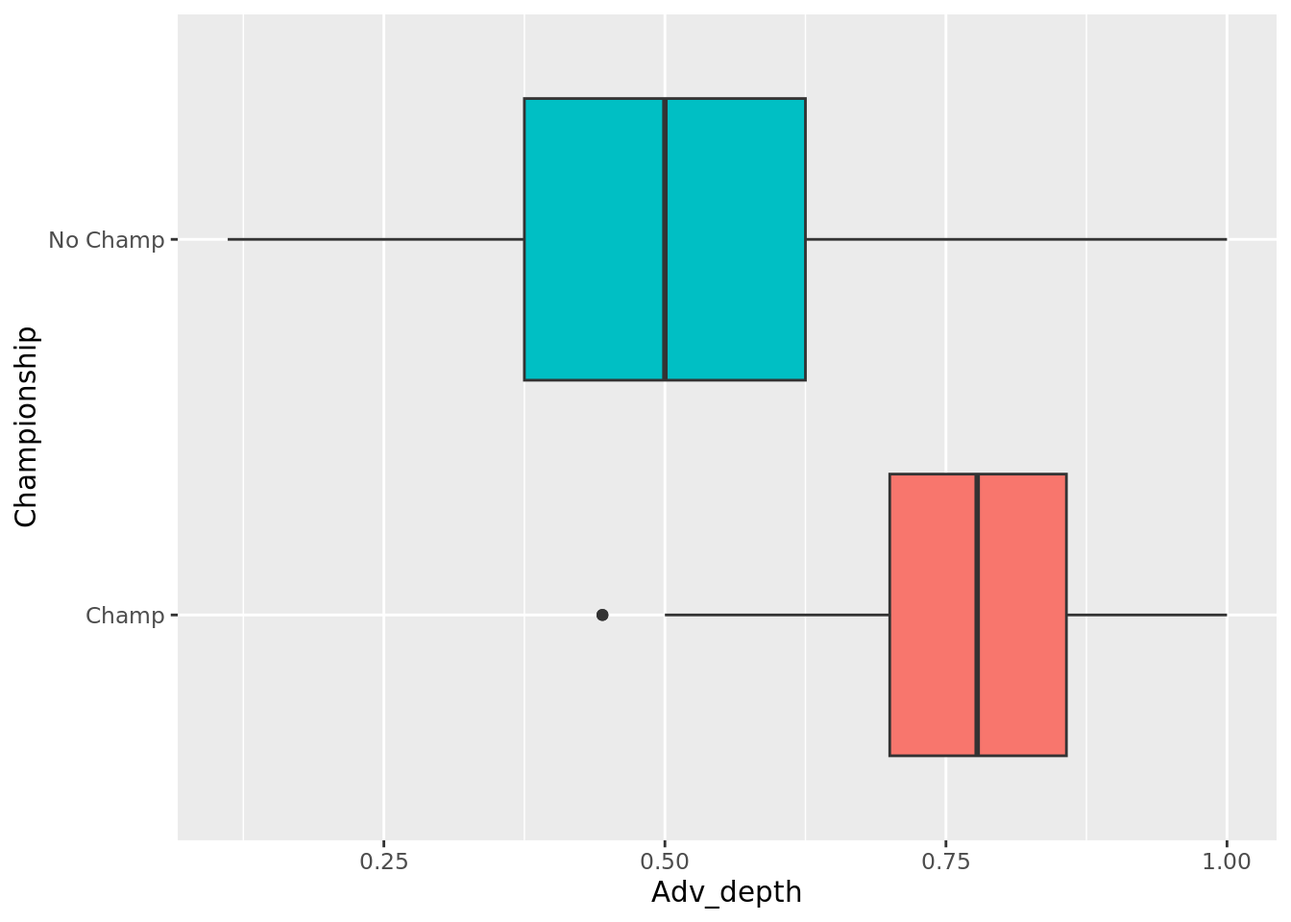
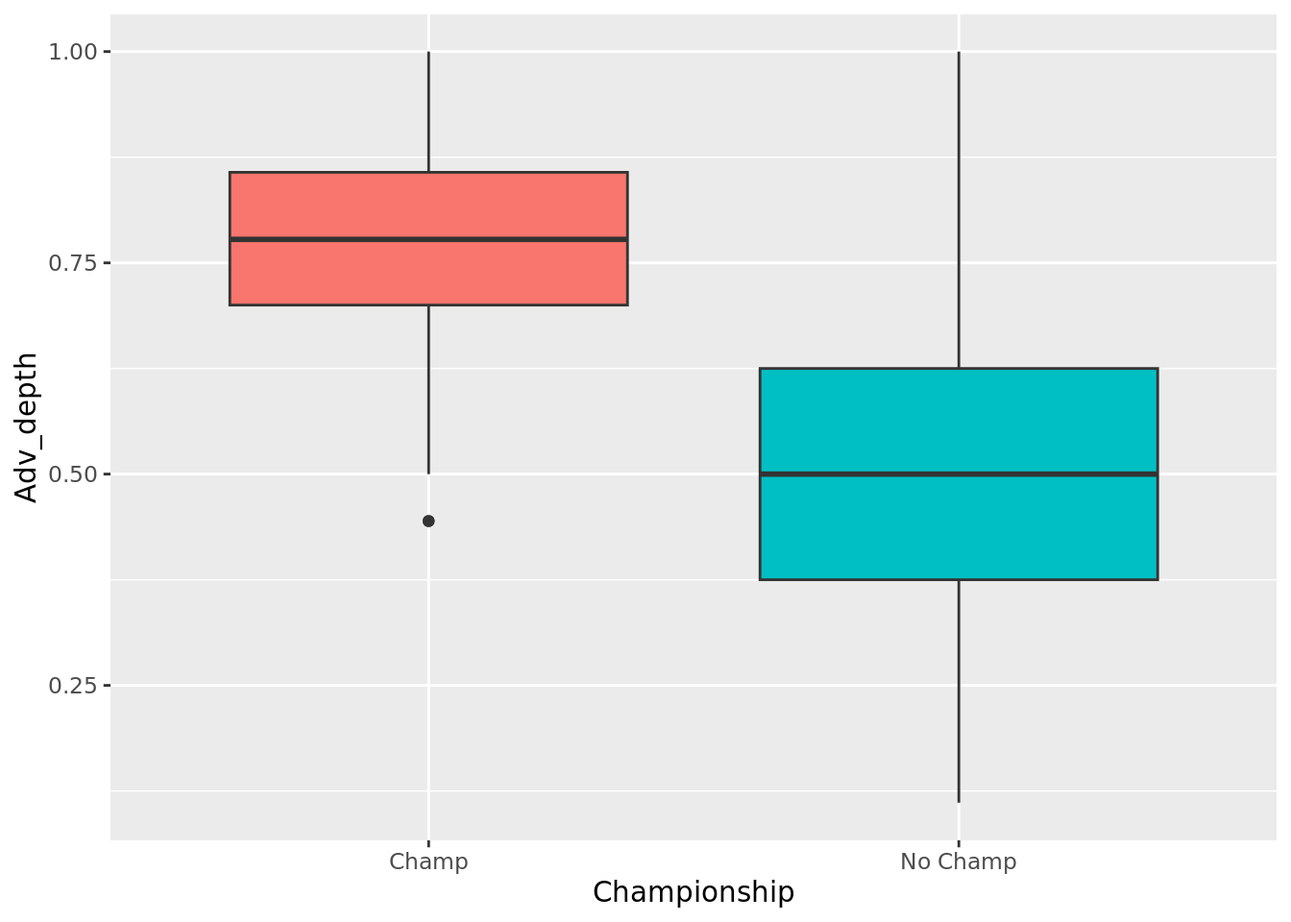
Added Part 1

diff --git a/docs/report.html b/docs/report.html
@@ -122,6 +122,7 @@ code span.wa { color: #60a0b0; font-weight: bold; font-style: italic; } /* Warni
   }
 }</script>
 
+  <script src="https://cdn.jsdelivr.net/npm/mathjax@3/es5/tex-chtml-full.js" type="text/javascript"></script>
 
 </head>
 
@@ -185,7 +186,8 @@ code span.wa { color: #60a0b0; font-weight: bold; font-style: italic; } /* Warni
 </header>
 
 <div class="cell">
-<div class="sourceCode cell-code" id="cb1"><pre class="sourceCode r code-with-copy"><code class="sourceCode r"><span id="cb1-1"><a href="#cb1-1" aria-hidden="true" tabindex="-1"></a><span class="fu">library</span>(tidyverse)</span></code><button title="Copy to Clipboard" class="code-copy-button"><i class="bi"></i></button></pre></div>
+<div class="sourceCode cell-code" id="cb1"><pre class="sourceCode r code-with-copy"><code class="sourceCode r"><span id="cb1-1"><a href="#cb1-1" aria-hidden="true" tabindex="-1"></a><span class="fu">library</span>(tidyverse)</span>
+<span id="cb1-2"><a href="#cb1-2" aria-hidden="true" tabindex="-1"></a><span class="fu">library</span>(tidymodels)</span></code><button title="Copy to Clipboard" class="code-copy-button"><i class="bi"></i></button></pre></div>
 </div>
 <div class="cell">
 <div class="sourceCode cell-code" id="cb2"><pre class="sourceCode r code-with-copy"><code class="sourceCode r"><span id="cb2-1"><a href="#cb2-1" aria-hidden="true" tabindex="-1"></a>AAAW_playoff_stats <span class="ot">&lt;-</span> <span class="fu">read_csv</span>(<span class="st">"data/AAAW_updatedplayoffStats.csv"</span>)</span></code><button title="Copy to Clipboard" class="code-copy-button"><i class="bi"></i></button></pre></div>
@@ -328,55 +330,120 @@ $ ws_per_48        &lt;dbl&gt; 0.228, -0.104, 0.094, 0.049, 0.049, 0.063, 0.182,
 <span id="cb14-9"><a href="#cb14-9" aria-hidden="true" tabindex="-1"></a>  <span class="fu">summarise</span>(<span class="at">count_rot =</span> <span class="fu">n</span>())</span>
 <span id="cb14-10"><a href="#cb14-10" aria-hidden="true" tabindex="-1"></a></span>
 <span id="cb14-11"><a href="#cb14-11" aria-hidden="true" tabindex="-1"></a>Basic_df <span class="ot">&lt;-</span> Qual_player_df_basic <span class="sc">|&gt;</span></span>
-<span id="cb14-12"><a href="#cb14-12" aria-hidden="true" tabindex="-1"></a>  <span class="fu">left_join</span>(All_rot_players_df, <span class="at">by =</span> <span class="st">"team_id"</span>)</span></code><button title="Copy to Clipboard" class="code-copy-button"><i class="bi"></i></button></pre></div>
-</div>
-<div class="cell">
-<div class="sourceCode cell-code" id="cb15"><pre class="sourceCode r code-with-copy"><code class="sourceCode r"><span id="cb15-1"><a href="#cb15-1" aria-hidden="true" tabindex="-1"></a>Basic_df <span class="ot">&lt;-</span> Basic_df <span class="sc">|&gt;</span></span>
-<span id="cb15-2"><a href="#cb15-2" aria-hidden="true" tabindex="-1"></a>  <span class="fu">mutate</span>(<span class="at">Basic_depth =</span> count_qual <span class="sc">/</span> count_rot,</span>
-<span id="cb15-3"><a href="#cb15-3" aria-hidden="true" tabindex="-1"></a>         <span class="at">Championship =</span> <span class="fu">if_else</span>(team_id <span class="sc">%in%</span> <span class="fu">c</span>(<span class="st">"1990DET"</span>, <span class="st">"1991CHI"</span>, <span class="st">"1992CHI"</span>, <span class="st">"1993CHI"</span>, <span class="st">"1994HOU"</span>, <span class="st">"1995HOU"</span>, <span class="st">"1996CHI"</span>, <span class="st">"1997CHI"</span>, <span class="st">"1998CHI"</span>, <span class="st">"1999SAS"</span>, <span class="st">"2000LAL"</span>, <span class="st">"2001LAL"</span>, <span class="st">"2002LAL"</span>, <span class="st">"2003SAS"</span>, <span class="st">"2004DET"</span>, <span class="st">"2005SAS"</span>, <span class="st">"2006MIA"</span>, <span class="st">"2007SAS"</span>, <span class="st">"2008BOS"</span>, <span class="st">"2009LAL"</span>, <span class="st">"2010LAL"</span>, <span class="st">"2011DAL"</span>, <span class="st">"2012MIA"</span>, <span class="st">"2013MIA"</span>, <span class="st">"2014SAS"</span>, <span class="st">"2015GSW"</span>, <span class="st">"2016CLE"</span>, <span class="st">"2017GSW"</span>, <span class="st">"2018GSW"</span>, <span class="st">"2019TOR"</span>, <span class="st">"2020LAL"</span>, <span class="st">"2021MIL"</span>, <span class="st">"2022GSW"</span>), <span class="st">"Champ"</span>, <span class="st">"No Champ"</span> ))</span></code><button title="Copy to Clipboard" class="code-copy-button"><i class="bi"></i></button></pre></div>
-</div>
-<div class="cell">
-<div class="sourceCode cell-code" id="cb16"><pre class="sourceCode r code-with-copy"><code class="sourceCode r"><span id="cb16-1"><a href="#cb16-1" aria-hidden="true" tabindex="-1"></a>Basic_df <span class="sc">|&gt;</span></span>
-<span id="cb16-2"><a href="#cb16-2" aria-hidden="true" tabindex="-1"></a>  <span class="fu">group_by</span>(Championship) <span class="sc">|&gt;</span></span>
-<span id="cb16-3"><a href="#cb16-3" aria-hidden="true" tabindex="-1"></a>  <span class="fu">summarize</span>(<span class="fu">mean</span>(Basic_depth))</span></code><button title="Copy to Clipboard" class="code-copy-button"><i class="bi"></i></button></pre></div>
+<span id="cb14-12"><a href="#cb14-12" aria-hidden="true" tabindex="-1"></a>  <span class="fu">left_join</span>(All_rot_players_df, <span class="at">by =</span> <span class="st">"team_id"</span>)</span>
+<span id="cb14-13"><a href="#cb14-13" aria-hidden="true" tabindex="-1"></a></span>
+<span id="cb14-14"><a href="#cb14-14" aria-hidden="true" tabindex="-1"></a>Basic_df</span></code><button title="Copy to Clipboard" class="code-copy-button"><i class="bi"></i></button></pre></div>
 <div class="cell-output cell-output-stdout">
-<pre><code># A tibble: 2 × 2
-  Championship `mean(Basic_depth)`
-  &lt;chr&gt;                      &lt;dbl&gt;
-1 Champ                      0.755
-2 No Champ                   0.720</code></pre>
+<pre><code># A tibble: 496 × 3
+   team_id count_qual count_rot
+   &lt;chr&gt;        &lt;int&gt;     &lt;int&gt;
+ 1 1990BOS          7         8
+ 2 1990CHI          7         9
+ 3 1990CLE          5         7
+ 4 1990DET          8         8
+ 5 1990HOU          5         7
+ 6 1990LAL          6         8
+ 7 1990MIL          6         7
+ 8 1990NYK          6         8
+ 9 1990PHI          5         7
+10 1990PHO          6         7
+# … with 486 more rows</code></pre>
+</div>
+</div>
+<div class="cell">
+<div class="sourceCode cell-code" id="cb16"><pre class="sourceCode r code-with-copy"><code class="sourceCode r"><span id="cb16-1"><a href="#cb16-1" aria-hidden="true" tabindex="-1"></a>Basic_df <span class="ot">&lt;-</span> Basic_df <span class="sc">|&gt;</span></span>
+<span id="cb16-2"><a href="#cb16-2" aria-hidden="true" tabindex="-1"></a>  <span class="fu">mutate</span>(<span class="at">Basic_depth =</span> count_qual <span class="sc">/</span> count_rot,</span>
+<span id="cb16-3"><a href="#cb16-3" aria-hidden="true" tabindex="-1"></a>         <span class="at">Championship =</span> <span class="fu">if_else</span>(team_id <span class="sc">%in%</span> <span class="fu">c</span>(<span class="st">"1990DET"</span>, <span class="st">"1991CHI"</span>, <span class="st">"1992CHI"</span>, <span class="st">"1993CHI"</span>, <span class="st">"1994HOU"</span>, <span class="st">"1995HOU"</span>, <span class="st">"1996CHI"</span>, <span class="st">"1997CHI"</span>, <span class="st">"1998CHI"</span>, <span class="st">"1999SAS"</span>, <span class="st">"2000LAL"</span>, <span class="st">"2001LAL"</span>, <span class="st">"2002LAL"</span>, <span class="st">"2003SAS"</span>, <span class="st">"2004DET"</span>, <span class="st">"2005SAS"</span>, <span class="st">"2006MIA"</span>, <span class="st">"2007SAS"</span>, <span class="st">"2008BOS"</span>, <span class="st">"2009LAL"</span>, <span class="st">"2010LAL"</span>, <span class="st">"2011DAL"</span>, <span class="st">"2012MIA"</span>, <span class="st">"2013MIA"</span>, <span class="st">"2014SAS"</span>, <span class="st">"2015GSW"</span>, <span class="st">"2016CLE"</span>, <span class="st">"2017GSW"</span>, <span class="st">"2018GSW"</span>, <span class="st">"2019TOR"</span>, <span class="st">"2020LAL"</span>, <span class="st">"2021MIL"</span>, <span class="st">"2022GSW"</span>), <span class="st">"Champ"</span>, <span class="st">"Not Champ"</span> ))</span></code><button title="Copy to Clipboard" class="code-copy-button"><i class="bi"></i></button></pre></div>
+</div>
+<div class="cell">
+<div class="sourceCode cell-code" id="cb17"><pre class="sourceCode r code-with-copy"><code class="sourceCode r"><span id="cb17-1"><a href="#cb17-1" aria-hidden="true" tabindex="-1"></a>Basic_df <span class="sc">|&gt;</span></span>
+<span id="cb17-2"><a href="#cb17-2" aria-hidden="true" tabindex="-1"></a>  <span class="fu">ggplot</span>(</span>
+<span id="cb17-3"><a href="#cb17-3" aria-hidden="true" tabindex="-1"></a>    <span class="fu">aes</span>(<span class="at">x =</span> Championship, <span class="at">y =</span> Basic_depth,  <span class="at">fill =</span> Championship)</span>
+<span id="cb17-4"><a href="#cb17-4" aria-hidden="true" tabindex="-1"></a>  ) <span class="sc">+</span></span>
+<span id="cb17-5"><a href="#cb17-5" aria-hidden="true" tabindex="-1"></a>  <span class="fu">geom_boxplot</span>() <span class="sc">+</span></span>
+<span id="cb17-6"><a href="#cb17-6" aria-hidden="true" tabindex="-1"></a>  <span class="fu">theme</span>(<span class="at">legend.position =</span> <span class="st">"none"</span>) <span class="sc">+</span></span>
+<span id="cb17-7"><a href="#cb17-7" aria-hidden="true" tabindex="-1"></a>  <span class="fu">labs</span>(<span class="at">title =</span> <span class="st">"Basic Depth of Champions vs Non-Champions"</span>,</span>
+<span id="cb17-8"><a href="#cb17-8" aria-hidden="true" tabindex="-1"></a>       <span class="at">x =</span> <span class="st">"Team"</span>,</span>
+<span id="cb17-9"><a href="#cb17-9" aria-hidden="true" tabindex="-1"></a>       <span class="at">y =</span> <span class="st">"Team Depth (Defined by Basic Stats)"</span>)</span></code><button title="Copy to Clipboard" class="code-copy-button"><i class="bi"></i></button></pre></div>
+<div class="cell-output-display">
+<p><img src="report_files/figure-html/basic-barplot-depth-1.png" class="img-fluid" width="672"></p>
 </div>
 </div>
 <div class="cell">
 <div class="sourceCode cell-code" id="cb18"><pre class="sourceCode r code-with-copy"><code class="sourceCode r"><span id="cb18-1"><a href="#cb18-1" aria-hidden="true" tabindex="-1"></a>Basic_df <span class="sc">|&gt;</span></span>
 <span id="cb18-2"><a href="#cb18-2" aria-hidden="true" tabindex="-1"></a>  <span class="fu">ggplot</span>(</span>
-<span id="cb18-3"><a href="#cb18-3" aria-hidden="true" tabindex="-1"></a>    <span class="fu">aes</span>(<span class="at">x =</span> Basic_depth, <span class="at">y =</span> Championship, <span class="at">fill =</span> Championship)</span>
+<span id="cb18-3"><a href="#cb18-3" aria-hidden="true" tabindex="-1"></a>    <span class="fu">aes</span>(<span class="at">x =</span> Championship, <span class="at">y =</span> Basic_depth,  <span class="at">fill =</span> Championship)</span>
 <span id="cb18-4"><a href="#cb18-4" aria-hidden="true" tabindex="-1"></a>  ) <span class="sc">+</span></span>
-<span id="cb18-5"><a href="#cb18-5" aria-hidden="true" tabindex="-1"></a>  <span class="fu">geom_boxplot</span>() <span class="sc">+</span></span>
-<span id="cb18-6"><a href="#cb18-6" aria-hidden="true" tabindex="-1"></a>  <span class="fu">theme</span>(<span class="at">legend.position =</span> <span class="st">"none"</span>)</span></code><button title="Copy to Clipboard" class="code-copy-button"><i class="bi"></i></button></pre></div>
+<span id="cb18-5"><a href="#cb18-5" aria-hidden="true" tabindex="-1"></a>  <span class="fu">geom_violin</span>() <span class="sc">+</span></span>
+<span id="cb18-6"><a href="#cb18-6" aria-hidden="true" tabindex="-1"></a>  <span class="fu">theme</span>(<span class="at">legend.position =</span> <span class="st">"none"</span>) <span class="sc">+</span></span>
+<span id="cb18-7"><a href="#cb18-7" aria-hidden="true" tabindex="-1"></a>  <span class="fu">labs</span>(<span class="at">title =</span> <span class="st">"Basic Depth of Champions vs Non-Champions"</span>,</span>
+<span id="cb18-8"><a href="#cb18-8" aria-hidden="true" tabindex="-1"></a>       <span class="at">x =</span> <span class="st">"Team"</span>,</span>
+<span id="cb18-9"><a href="#cb18-9" aria-hidden="true" tabindex="-1"></a>       <span class="at">y =</span> <span class="st">"Team Depth (Defined by Basic Stats)"</span>)</span></code><button title="Copy to Clipboard" class="code-copy-button"><i class="bi"></i></button></pre></div>
 <div class="cell-output-display">
-<p><img src="report_files/figure-html/basic-barplot-depth-1.png" class="img-fluid" width="672"></p>
+<p><img src="report_files/figure-html/basic-violin-depth-1.png" class="img-fluid" width="672"></p>
+</div>
+</div>
+<p>Statistical Test</p>
+<div class="cell">
+<div class="sourceCode cell-code" id="cb19"><pre class="sourceCode r code-with-copy"><code class="sourceCode r"><span id="cb19-1"><a href="#cb19-1" aria-hidden="true" tabindex="-1"></a>Basic_df <span class="sc">|&gt;</span></span>
+<span id="cb19-2"><a href="#cb19-2" aria-hidden="true" tabindex="-1"></a>  <span class="fu">group_by</span>(Championship) <span class="sc">|&gt;</span></span>
+<span id="cb19-3"><a href="#cb19-3" aria-hidden="true" tabindex="-1"></a>  <span class="fu">summarize</span>(<span class="fu">mean</span>(Basic_depth))</span></code><button title="Copy to Clipboard" class="code-copy-button"><i class="bi"></i></button></pre></div>
+<div class="cell-output cell-output-stdout">
+<pre><code># A tibble: 2 × 2
+  Championship `mean(Basic_depth)`
+  &lt;chr&gt;                      &lt;dbl&gt;
+1 Champ                      0.755
+2 Not Champ                  0.720</code></pre>
+</div>
+</div>
+<p><span class="math inline">\(\bar{x_c} - \bar{x_n}\)</span> = 0.04</p>
+<div class="cell">
+<div class="sourceCode cell-code" id="cb21"><pre class="sourceCode r code-with-copy"><code class="sourceCode r"><span id="cb21-1"><a href="#cb21-1" aria-hidden="true" tabindex="-1"></a>null_dist_basic <span class="ot">&lt;-</span> Basic_df <span class="sc">|&gt;</span></span>
+<span id="cb21-2"><a href="#cb21-2" aria-hidden="true" tabindex="-1"></a>  <span class="fu">specify</span>(<span class="at">response =</span> Basic_depth, <span class="at">explanatory =</span> Championship) <span class="sc">|&gt;</span></span>
+<span id="cb21-3"><a href="#cb21-3" aria-hidden="true" tabindex="-1"></a>  <span class="fu">hypothesize</span>(<span class="at">null =</span> <span class="st">"independence"</span>) <span class="sc">|&gt;</span></span>
+<span id="cb21-4"><a href="#cb21-4" aria-hidden="true" tabindex="-1"></a>  <span class="fu">generate</span>(<span class="at">reps =</span> <span class="dv">1000</span>, <span class="at">type =</span> <span class="st">"permute"</span>) <span class="sc">|&gt;</span></span>
+<span id="cb21-5"><a href="#cb21-5" aria-hidden="true" tabindex="-1"></a>  <span class="fu">calculate</span>(<span class="at">stat =</span> <span class="st">"diff in means"</span>, <span class="at">order =</span> <span class="fu">c</span>(<span class="st">"Champ"</span>, <span class="st">"Not Champ"</span>))</span></code><button title="Copy to Clipboard" class="code-copy-button"><i class="bi"></i></button></pre></div>
+</div>
+<div class="cell">
+<div class="sourceCode cell-code" id="cb22"><pre class="sourceCode r code-with-copy"><code class="sourceCode r"><span id="cb22-1"><a href="#cb22-1" aria-hidden="true" tabindex="-1"></a><span class="fu">visualize</span>(null_dist_basic) <span class="sc">+</span></span>
+<span id="cb22-2"><a href="#cb22-2" aria-hidden="true" tabindex="-1"></a> <span class="fu">shade_p_value</span>(<span class="at">obs_stat =</span> <span class="fl">0.04</span>, <span class="at">direction =</span> <span class="st">"greater"</span>) <span class="sc">+</span></span>
+<span id="cb22-3"><a href="#cb22-3" aria-hidden="true" tabindex="-1"></a>  <span class="fu">labs</span>(<span class="at">title =</span> <span class="st">"Null Distribution of (Champion Depth - Non-Champion Depth) </span></span>
+<span id="cb22-4"><a href="#cb22-4" aria-hidden="true" tabindex="-1"></a><span class="st">using Basic Statistics"</span>,</span>
+<span id="cb22-5"><a href="#cb22-5" aria-hidden="true" tabindex="-1"></a>      <span class="at">x =</span> <span class="st">"Difference (Champion Depth - Non-Champion Depth)"</span>,</span>
+<span id="cb22-6"><a href="#cb22-6" aria-hidden="true" tabindex="-1"></a>      <span class="at">y =</span> <span class="st">"Frequency"</span>)</span></code><button title="Copy to Clipboard" class="code-copy-button"><i class="bi"></i></button></pre></div>
+<div class="cell-output-display">
+<p><img src="report_files/figure-html/null-vis-basic-1.png" class="img-fluid" width="672"></p>
+</div>
+</div>
+<div class="cell">
+<div class="sourceCode cell-code" id="cb23"><pre class="sourceCode r code-with-copy"><code class="sourceCode r"><span id="cb23-1"><a href="#cb23-1" aria-hidden="true" tabindex="-1"></a>null_dist_basic <span class="sc">|&gt;</span></span>
+<span id="cb23-2"><a href="#cb23-2" aria-hidden="true" tabindex="-1"></a>  <span class="fu">get_p_value</span>(<span class="at">obs_stat =</span> <span class="fl">0.04</span>, <span class="at">direction =</span> <span class="st">"right"</span>)</span></code><button title="Copy to Clipboard" class="code-copy-button"><i class="bi"></i></button></pre></div>
+<div class="cell-output cell-output-stdout">
+<pre><code># A tibble: 1 × 1
+  p_value
+    &lt;dbl&gt;
+1   0.064</code></pre>
 </div>
 </div>
 <p>Part 2: Advanced Stats</p>
 <div class="cell">
-<div class="sourceCode cell-code" id="cb19"><pre class="sourceCode r code-with-copy"><code class="sourceCode r"><span id="cb19-1"><a href="#cb19-1" aria-hidden="true" tabindex="-1"></a>Qual_player_df_adv <span class="ot">&lt;-</span> NBA_df <span class="sc">|&gt;</span></span>
-<span id="cb19-2"><a href="#cb19-2" aria-hidden="true" tabindex="-1"></a>  <span class="fu">filter</span>(per <span class="sc">&gt;=</span> <span class="dv">15</span> <span class="sc">|</span> ws_per_48 <span class="sc">&gt;=</span> <span class="fl">0.1</span>) <span class="sc">|&gt;</span></span>
-<span id="cb19-3"><a href="#cb19-3" aria-hidden="true" tabindex="-1"></a>  <span class="fu">group_by</span>(team_id) <span class="sc">|&gt;</span></span>
-<span id="cb19-4"><a href="#cb19-4" aria-hidden="true" tabindex="-1"></a>  <span class="fu">summarise</span>(<span class="at">count_qual =</span> <span class="fu">n</span>())</span>
-<span id="cb19-5"><a href="#cb19-5" aria-hidden="true" tabindex="-1"></a></span>
-<span id="cb19-6"><a href="#cb19-6" aria-hidden="true" tabindex="-1"></a>Adv_df <span class="ot">&lt;-</span> Qual_player_df_adv <span class="sc">|&gt;</span></span>
-<span id="cb19-7"><a href="#cb19-7" aria-hidden="true" tabindex="-1"></a>  <span class="fu">left_join</span>(All_rot_players_df, <span class="at">by =</span> <span class="st">"team_id"</span>)</span></code><button title="Copy to Clipboard" class="code-copy-button"><i class="bi"></i></button></pre></div>
+<div class="sourceCode cell-code" id="cb25"><pre class="sourceCode r code-with-copy"><code class="sourceCode r"><span id="cb25-1"><a href="#cb25-1" aria-hidden="true" tabindex="-1"></a>Qual_player_df_adv <span class="ot">&lt;-</span> NBA_df <span class="sc">|&gt;</span></span>
+<span id="cb25-2"><a href="#cb25-2" aria-hidden="true" tabindex="-1"></a>  <span class="fu">filter</span>(per <span class="sc">&gt;=</span> <span class="dv">15</span> <span class="sc">|</span> ws_per_48 <span class="sc">&gt;=</span> <span class="fl">0.1</span>) <span class="sc">|&gt;</span></span>
+<span id="cb25-3"><a href="#cb25-3" aria-hidden="true" tabindex="-1"></a>  <span class="fu">group_by</span>(team_id) <span class="sc">|&gt;</span></span>
+<span id="cb25-4"><a href="#cb25-4" aria-hidden="true" tabindex="-1"></a>  <span class="fu">summarise</span>(<span class="at">count_qual =</span> <span class="fu">n</span>())</span>
+<span id="cb25-5"><a href="#cb25-5" aria-hidden="true" tabindex="-1"></a></span>
+<span id="cb25-6"><a href="#cb25-6" aria-hidden="true" tabindex="-1"></a>Adv_df <span class="ot">&lt;-</span> Qual_player_df_adv <span class="sc">|&gt;</span></span>
+<span id="cb25-7"><a href="#cb25-7" aria-hidden="true" tabindex="-1"></a>  <span class="fu">left_join</span>(All_rot_players_df, <span class="at">by =</span> <span class="st">"team_id"</span>)</span></code><button title="Copy to Clipboard" class="code-copy-button"><i class="bi"></i></button></pre></div>
 </div>
 <div class="cell">
-<div class="sourceCode cell-code" id="cb20"><pre class="sourceCode r code-with-copy"><code class="sourceCode r"><span id="cb20-1"><a href="#cb20-1" aria-hidden="true" tabindex="-1"></a>Adv_df <span class="ot">&lt;-</span> Adv_df <span class="sc">|&gt;</span></span>
-<span id="cb20-2"><a href="#cb20-2" aria-hidden="true" tabindex="-1"></a>  <span class="fu">mutate</span>(<span class="at">Adv_depth =</span> count_qual <span class="sc">/</span> count_rot,</span>
-<span id="cb20-3"><a href="#cb20-3" aria-hidden="true" tabindex="-1"></a>         <span class="at">Championship =</span> <span class="fu">if_else</span>(team_id <span class="sc">%in%</span> <span class="fu">c</span>(<span class="st">"1990DET"</span>, <span class="st">"1991CHI"</span>, <span class="st">"1992CHI"</span>, <span class="st">"1993CHI"</span>, <span class="st">"1994HOU"</span>, <span class="st">"1995HOU"</span>, <span class="st">"1996CHI"</span>, <span class="st">"1997CHI"</span>, <span class="st">"1998CHI"</span>, <span class="st">"1999SAS"</span>, <span class="st">"2000LAL"</span>, <span class="st">"2001LAL"</span>, <span class="st">"2002LAL"</span>, <span class="st">"2003SAS"</span>, <span class="st">"2004DET"</span>, <span class="st">"2005SAS"</span>, <span class="st">"2006MIA"</span>, <span class="st">"2007SAS"</span>, <span class="st">"2008BOS"</span>, <span class="st">"2009LAL"</span>, <span class="st">"2010LAL"</span>, <span class="st">"2011DAL"</span>, <span class="st">"2012MIA"</span>, <span class="st">"2013MIA"</span>, <span class="st">"2014SAS"</span>, <span class="st">"2015GSW"</span>, <span class="st">"2016CLE"</span>, <span class="st">"2017GSW"</span>, <span class="st">"2018GSW"</span>, <span class="st">"2019TOR"</span>, <span class="st">"2020LAL"</span>, <span class="st">"2021MIL"</span>, <span class="st">"2022GSW"</span>), <span class="st">"Champ"</span>, <span class="st">"No Champ"</span> ))</span></code><button title="Copy to Clipboard" class="code-copy-button"><i class="bi"></i></button></pre></div>
+<div class="sourceCode cell-code" id="cb26"><pre class="sourceCode r code-with-copy"><code class="sourceCode r"><span id="cb26-1"><a href="#cb26-1" aria-hidden="true" tabindex="-1"></a>Adv_df <span class="ot">&lt;-</span> Adv_df <span class="sc">|&gt;</span></span>
+<span id="cb26-2"><a href="#cb26-2" aria-hidden="true" tabindex="-1"></a>  <span class="fu">mutate</span>(<span class="at">Adv_depth =</span> count_qual <span class="sc">/</span> count_rot,</span>
+<span id="cb26-3"><a href="#cb26-3" aria-hidden="true" tabindex="-1"></a>         <span class="at">Championship =</span> <span class="fu">if_else</span>(team_id <span class="sc">%in%</span> <span class="fu">c</span>(<span class="st">"1990DET"</span>, <span class="st">"1991CHI"</span>, <span class="st">"1992CHI"</span>, <span class="st">"1993CHI"</span>, <span class="st">"1994HOU"</span>, <span class="st">"1995HOU"</span>, <span class="st">"1996CHI"</span>, <span class="st">"1997CHI"</span>, <span class="st">"1998CHI"</span>, <span class="st">"1999SAS"</span>, <span class="st">"2000LAL"</span>, <span class="st">"2001LAL"</span>, <span class="st">"2002LAL"</span>, <span class="st">"2003SAS"</span>, <span class="st">"2004DET"</span>, <span class="st">"2005SAS"</span>, <span class="st">"2006MIA"</span>, <span class="st">"2007SAS"</span>, <span class="st">"2008BOS"</span>, <span class="st">"2009LAL"</span>, <span class="st">"2010LAL"</span>, <span class="st">"2011DAL"</span>, <span class="st">"2012MIA"</span>, <span class="st">"2013MIA"</span>, <span class="st">"2014SAS"</span>, <span class="st">"2015GSW"</span>, <span class="st">"2016CLE"</span>, <span class="st">"2017GSW"</span>, <span class="st">"2018GSW"</span>, <span class="st">"2019TOR"</span>, <span class="st">"2020LAL"</span>, <span class="st">"2021MIL"</span>, <span class="st">"2022GSW"</span>), <span class="st">"Champ"</span>, <span class="st">"No Champ"</span> ))</span></code><button title="Copy to Clipboard" class="code-copy-button"><i class="bi"></i></button></pre></div>
 </div>
 <div class="cell">
-<div class="sourceCode cell-code" id="cb21"><pre class="sourceCode r code-with-copy"><code class="sourceCode r"><span id="cb21-1"><a href="#cb21-1" aria-hidden="true" tabindex="-1"></a>Adv_df <span class="sc">|&gt;</span></span>
-<span id="cb21-2"><a href="#cb21-2" aria-hidden="true" tabindex="-1"></a>  <span class="fu">group_by</span>(Championship) <span class="sc">|&gt;</span></span>
-<span id="cb21-3"><a href="#cb21-3" aria-hidden="true" tabindex="-1"></a>  <span class="fu">summarize</span>(<span class="fu">mean</span>(Adv_depth))</span></code><button title="Copy to Clipboard" class="code-copy-button"><i class="bi"></i></button></pre></div>
+<div class="sourceCode cell-code" id="cb27"><pre class="sourceCode r code-with-copy"><code class="sourceCode r"><span id="cb27-1"><a href="#cb27-1" aria-hidden="true" tabindex="-1"></a>Adv_df <span class="sc">|&gt;</span></span>
+<span id="cb27-2"><a href="#cb27-2" aria-hidden="true" tabindex="-1"></a>  <span class="fu">group_by</span>(Championship) <span class="sc">|&gt;</span></span>
+<span id="cb27-3"><a href="#cb27-3" aria-hidden="true" tabindex="-1"></a>  <span class="fu">summarize</span>(<span class="fu">mean</span>(Adv_depth))</span></code><button title="Copy to Clipboard" class="code-copy-button"><i class="bi"></i></button></pre></div>
 <div class="cell-output cell-output-stdout">
 <pre><code># A tibble: 2 × 2
   Championship `mean(Adv_depth)`
@@ -386,41 +453,41 @@ $ ws_per_48        &lt;dbl&gt; 0.228, -0.104, 0.094, 0.049, 0.049, 0.063, 0.182,
 </div>
 </div>
 <div class="cell">
-<div class="sourceCode cell-code" id="cb23"><pre class="sourceCode r code-with-copy"><code class="sourceCode r"><span id="cb23-1"><a href="#cb23-1" aria-hidden="true" tabindex="-1"></a>Adv_df <span class="sc">|&gt;</span></span>
-<span id="cb23-2"><a href="#cb23-2" aria-hidden="true" tabindex="-1"></a>  <span class="fu">ggplot</span>(</span>
-<span id="cb23-3"><a href="#cb23-3" aria-hidden="true" tabindex="-1"></a>    <span class="fu">aes</span>(<span class="at">x =</span> Adv_depth, <span class="at">y =</span> Championship, <span class="at">fill =</span> Championship)</span>
-<span id="cb23-4"><a href="#cb23-4" aria-hidden="true" tabindex="-1"></a>  ) <span class="sc">+</span></span>
-<span id="cb23-5"><a href="#cb23-5" aria-hidden="true" tabindex="-1"></a>  <span class="fu">geom_boxplot</span>() <span class="sc">+</span></span>
-<span id="cb23-6"><a href="#cb23-6" aria-hidden="true" tabindex="-1"></a>  <span class="fu">theme</span>(<span class="at">legend.position =</span> <span class="st">"none"</span>)</span></code><button title="Copy to Clipboard" class="code-copy-button"><i class="bi"></i></button></pre></div>
+<div class="sourceCode cell-code" id="cb29"><pre class="sourceCode r code-with-copy"><code class="sourceCode r"><span id="cb29-1"><a href="#cb29-1" aria-hidden="true" tabindex="-1"></a>Adv_df <span class="sc">|&gt;</span></span>
+<span id="cb29-2"><a href="#cb29-2" aria-hidden="true" tabindex="-1"></a>  <span class="fu">ggplot</span>(</span>
+<span id="cb29-3"><a href="#cb29-3" aria-hidden="true" tabindex="-1"></a>    <span class="fu">aes</span>(<span class="at">x =</span> Championship, <span class="at">y =</span> Adv_depth,  <span class="at">fill =</span> Championship)</span>
+<span id="cb29-4"><a href="#cb29-4" aria-hidden="true" tabindex="-1"></a>  ) <span class="sc">+</span></span>
+<span id="cb29-5"><a href="#cb29-5" aria-hidden="true" tabindex="-1"></a>  <span class="fu">geom_boxplot</span>() <span class="sc">+</span></span>
+<span id="cb29-6"><a href="#cb29-6" aria-hidden="true" tabindex="-1"></a>  <span class="fu">theme</span>(<span class="at">legend.position =</span> <span class="st">"none"</span>)</span></code><button title="Copy to Clipboard" class="code-copy-button"><i class="bi"></i></button></pre></div>
 <div class="cell-output-display">
 <p><img src="report_files/figure-html/adv-barplot-depth-1.png" class="img-fluid" width="672"></p>
 </div>
 </div>
 <p>Part 3: Combo</p>
 <div class="cell">
-<div class="sourceCode cell-code" id="cb24"><pre class="sourceCode r code-with-copy"><code class="sourceCode r"><span id="cb24-1"><a href="#cb24-1" aria-hidden="true" tabindex="-1"></a>NBA_df_combo <span class="ot">&lt;-</span> NBA_df <span class="sc">|&gt;</span></span>
-<span id="cb24-2"><a href="#cb24-2" aria-hidden="true" tabindex="-1"></a>  <span class="fu">mutate</span>(<span class="at">pp_36 =</span> pts_per_g <span class="sc">/</span> mp_per_g <span class="sc">*</span> <span class="dv">36</span>,</span>
-<span id="cb24-3"><a href="#cb24-3" aria-hidden="true" tabindex="-1"></a>         <span class="at">rp_36 =</span> trb_per_g <span class="sc">/</span> mp_per_g <span class="sc">*</span> <span class="dv">36</span>,</span>
-<span id="cb24-4"><a href="#cb24-4" aria-hidden="true" tabindex="-1"></a>         <span class="at">ap_36 =</span> ast_per_g <span class="sc">/</span> mp_per_g <span class="sc">*</span> <span class="dv">36</span>)</span>
-<span id="cb24-5"><a href="#cb24-5" aria-hidden="true" tabindex="-1"></a></span>
-<span id="cb24-6"><a href="#cb24-6" aria-hidden="true" tabindex="-1"></a>Qual_player_df_combo <span class="ot">&lt;-</span> NBA_df_combo <span class="sc">|&gt;</span></span>
-<span id="cb24-7"><a href="#cb24-7" aria-hidden="true" tabindex="-1"></a>  <span class="fu">filter</span>(pp_36 <span class="sc">&gt;</span> <span class="dv">16</span> <span class="sc">|</span> rp_36 <span class="sc">&gt;</span> <span class="fl">6.5</span> <span class="sc">|</span> ap_36 <span class="sc">&gt;</span> <span class="fl">3.5</span>, </span>
-<span id="cb24-8"><a href="#cb24-8" aria-hidden="true" tabindex="-1"></a>         per <span class="sc">&gt;=</span> <span class="dv">15</span> <span class="sc">|</span> ws_per_48 <span class="sc">&gt;=</span> <span class="fl">0.1</span>) <span class="sc">|&gt;</span></span>
-<span id="cb24-9"><a href="#cb24-9" aria-hidden="true" tabindex="-1"></a>  <span class="fu">group_by</span>(team_id) <span class="sc">|&gt;</span></span>
-<span id="cb24-10"><a href="#cb24-10" aria-hidden="true" tabindex="-1"></a>  <span class="fu">summarise</span>(<span class="at">count_qual =</span> <span class="fu">n</span>())</span>
-<span id="cb24-11"><a href="#cb24-11" aria-hidden="true" tabindex="-1"></a></span>
-<span id="cb24-12"><a href="#cb24-12" aria-hidden="true" tabindex="-1"></a>Combo_df <span class="ot">&lt;-</span> Qual_player_df_combo <span class="sc">|&gt;</span></span>
-<span id="cb24-13"><a href="#cb24-13" aria-hidden="true" tabindex="-1"></a>  <span class="fu">left_join</span>(All_rot_players_df, <span class="at">by =</span> <span class="st">"team_id"</span>)</span></code><button title="Copy to Clipboard" class="code-copy-button"><i class="bi"></i></button></pre></div>
+<div class="sourceCode cell-code" id="cb30"><pre class="sourceCode r code-with-copy"><code class="sourceCode r"><span id="cb30-1"><a href="#cb30-1" aria-hidden="true" tabindex="-1"></a>NBA_df_combo <span class="ot">&lt;-</span> NBA_df <span class="sc">|&gt;</span></span>
+<span id="cb30-2"><a href="#cb30-2" aria-hidden="true" tabindex="-1"></a>  <span class="fu">mutate</span>(<span class="at">pp_36 =</span> pts_per_g <span class="sc">/</span> mp_per_g <span class="sc">*</span> <span class="dv">36</span>,</span>
+<span id="cb30-3"><a href="#cb30-3" aria-hidden="true" tabindex="-1"></a>         <span class="at">rp_36 =</span> trb_per_g <span class="sc">/</span> mp_per_g <span class="sc">*</span> <span class="dv">36</span>,</span>
+<span id="cb30-4"><a href="#cb30-4" aria-hidden="true" tabindex="-1"></a>         <span class="at">ap_36 =</span> ast_per_g <span class="sc">/</span> mp_per_g <span class="sc">*</span> <span class="dv">36</span>)</span>
+<span id="cb30-5"><a href="#cb30-5" aria-hidden="true" tabindex="-1"></a></span>
+<span id="cb30-6"><a href="#cb30-6" aria-hidden="true" tabindex="-1"></a>Qual_player_df_combo <span class="ot">&lt;-</span> NBA_df_combo <span class="sc">|&gt;</span></span>
+<span id="cb30-7"><a href="#cb30-7" aria-hidden="true" tabindex="-1"></a>  <span class="fu">filter</span>(pp_36 <span class="sc">&gt;</span> <span class="dv">16</span> <span class="sc">|</span> rp_36 <span class="sc">&gt;</span> <span class="fl">6.5</span> <span class="sc">|</span> ap_36 <span class="sc">&gt;</span> <span class="fl">3.5</span>, </span>
+<span id="cb30-8"><a href="#cb30-8" aria-hidden="true" tabindex="-1"></a>         per <span class="sc">&gt;=</span> <span class="dv">15</span> <span class="sc">|</span> ws_per_48 <span class="sc">&gt;=</span> <span class="fl">0.1</span>) <span class="sc">|&gt;</span></span>
+<span id="cb30-9"><a href="#cb30-9" aria-hidden="true" tabindex="-1"></a>  <span class="fu">group_by</span>(team_id) <span class="sc">|&gt;</span></span>
+<span id="cb30-10"><a href="#cb30-10" aria-hidden="true" tabindex="-1"></a>  <span class="fu">summarise</span>(<span class="at">count_qual =</span> <span class="fu">n</span>())</span>
+<span id="cb30-11"><a href="#cb30-11" aria-hidden="true" tabindex="-1"></a></span>
+<span id="cb30-12"><a href="#cb30-12" aria-hidden="true" tabindex="-1"></a>Combo_df <span class="ot">&lt;-</span> Qual_player_df_combo <span class="sc">|&gt;</span></span>
+<span id="cb30-13"><a href="#cb30-13" aria-hidden="true" tabindex="-1"></a>  <span class="fu">left_join</span>(All_rot_players_df, <span class="at">by =</span> <span class="st">"team_id"</span>)</span></code><button title="Copy to Clipboard" class="code-copy-button"><i class="bi"></i></button></pre></div>
 </div>
 <div class="cell">
-<div class="sourceCode cell-code" id="cb25"><pre class="sourceCode r code-with-copy"><code class="sourceCode r"><span id="cb25-1"><a href="#cb25-1" aria-hidden="true" tabindex="-1"></a>Combo_df <span class="ot">&lt;-</span> Combo_df <span class="sc">|&gt;</span></span>
-<span id="cb25-2"><a href="#cb25-2" aria-hidden="true" tabindex="-1"></a>  <span class="fu">mutate</span>(<span class="at">Combo_depth =</span> count_qual <span class="sc">/</span> count_rot,</span>
-<span id="cb25-3"><a href="#cb25-3" aria-hidden="true" tabindex="-1"></a>         <span class="at">Championship =</span> <span class="fu">if_else</span>(team_id <span class="sc">%in%</span> <span class="fu">c</span>(<span class="st">"1990DET"</span>, <span class="st">"1991CHI"</span>, <span class="st">"1992CHI"</span>, <span class="st">"1993CHI"</span>, <span class="st">"1994HOU"</span>, <span class="st">"1995HOU"</span>, <span class="st">"1996CHI"</span>, <span class="st">"1997CHI"</span>, <span class="st">"1998CHI"</span>, <span class="st">"1999SAS"</span>, <span class="st">"2000LAL"</span>, <span class="st">"2001LAL"</span>, <span class="st">"2002LAL"</span>, <span class="st">"2003SAS"</span>, <span class="st">"2004DET"</span>, <span class="st">"2005SAS"</span>, <span class="st">"2006MIA"</span>, <span class="st">"2007SAS"</span>, <span class="st">"2008BOS"</span>, <span class="st">"2009LAL"</span>, <span class="st">"2010LAL"</span>, <span class="st">"2011DAL"</span>, <span class="st">"2012MIA"</span>, <span class="st">"2013MIA"</span>, <span class="st">"2014SAS"</span>, <span class="st">"2015GSW"</span>, <span class="st">"2016CLE"</span>, <span class="st">"2017GSW"</span>, <span class="st">"2018GSW"</span>, <span class="st">"2019TOR"</span>, <span class="st">"2020LAL"</span>, <span class="st">"2021MIL"</span>, <span class="st">"2022GSW"</span>), <span class="st">"Champ"</span>, <span class="st">"No Champ"</span> ))</span></code><button title="Copy to Clipboard" class="code-copy-button"><i class="bi"></i></button></pre></div>
+<div class="sourceCode cell-code" id="cb31"><pre class="sourceCode r code-with-copy"><code class="sourceCode r"><span id="cb31-1"><a href="#cb31-1" aria-hidden="true" tabindex="-1"></a>Combo_df <span class="ot">&lt;-</span> Combo_df <span class="sc">|&gt;</span></span>
+<span id="cb31-2"><a href="#cb31-2" aria-hidden="true" tabindex="-1"></a>  <span class="fu">mutate</span>(<span class="at">Combo_depth =</span> count_qual <span class="sc">/</span> count_rot,</span>
+<span id="cb31-3"><a href="#cb31-3" aria-hidden="true" tabindex="-1"></a>         <span class="at">Championship =</span> <span class="fu">if_else</span>(team_id <span class="sc">%in%</span> <span class="fu">c</span>(<span class="st">"1990DET"</span>, <span class="st">"1991CHI"</span>, <span class="st">"1992CHI"</span>, <span class="st">"1993CHI"</span>, <span class="st">"1994HOU"</span>, <span class="st">"1995HOU"</span>, <span class="st">"1996CHI"</span>, <span class="st">"1997CHI"</span>, <span class="st">"1998CHI"</span>, <span class="st">"1999SAS"</span>, <span class="st">"2000LAL"</span>, <span class="st">"2001LAL"</span>, <span class="st">"2002LAL"</span>, <span class="st">"2003SAS"</span>, <span class="st">"2004DET"</span>, <span class="st">"2005SAS"</span>, <span class="st">"2006MIA"</span>, <span class="st">"2007SAS"</span>, <span class="st">"2008BOS"</span>, <span class="st">"2009LAL"</span>, <span class="st">"2010LAL"</span>, <span class="st">"2011DAL"</span>, <span class="st">"2012MIA"</span>, <span class="st">"2013MIA"</span>, <span class="st">"2014SAS"</span>, <span class="st">"2015GSW"</span>, <span class="st">"2016CLE"</span>, <span class="st">"2017GSW"</span>, <span class="st">"2018GSW"</span>, <span class="st">"2019TOR"</span>, <span class="st">"2020LAL"</span>, <span class="st">"2021MIL"</span>, <span class="st">"2022GSW"</span>), <span class="st">"Champ"</span>, <span class="st">"No Champ"</span> ))</span></code><button title="Copy to Clipboard" class="code-copy-button"><i class="bi"></i></button></pre></div>
 </div>
 <div class="cell">
-<div class="sourceCode cell-code" id="cb26"><pre class="sourceCode r code-with-copy"><code class="sourceCode r"><span id="cb26-1"><a href="#cb26-1" aria-hidden="true" tabindex="-1"></a>Combo_df <span class="sc">|&gt;</span></span>
-<span id="cb26-2"><a href="#cb26-2" aria-hidden="true" tabindex="-1"></a>  <span class="fu">group_by</span>(Championship) <span class="sc">|&gt;</span></span>
-<span id="cb26-3"><a href="#cb26-3" aria-hidden="true" tabindex="-1"></a>  <span class="fu">summarize</span>(<span class="fu">mean</span>(Combo_depth))</span></code><button title="Copy to Clipboard" class="code-copy-button"><i class="bi"></i></button></pre></div>
+<div class="sourceCode cell-code" id="cb32"><pre class="sourceCode r code-with-copy"><code class="sourceCode r"><span id="cb32-1"><a href="#cb32-1" aria-hidden="true" tabindex="-1"></a>Combo_df <span class="sc">|&gt;</span></span>
+<span id="cb32-2"><a href="#cb32-2" aria-hidden="true" tabindex="-1"></a>  <span class="fu">group_by</span>(Championship) <span class="sc">|&gt;</span></span>
+<span id="cb32-3"><a href="#cb32-3" aria-hidden="true" tabindex="-1"></a>  <span class="fu">summarize</span>(<span class="fu">mean</span>(Combo_depth))</span></code><button title="Copy to Clipboard" class="code-copy-button"><i class="bi"></i></button></pre></div>
 <div class="cell-output cell-output-stdout">
 <pre><code># A tibble: 2 × 2
   Championship `mean(Combo_depth)`
@@ -430,12 +497,12 @@ $ ws_per_48        &lt;dbl&gt; 0.228, -0.104, 0.094, 0.049, 0.049, 0.063, 0.182,
 </div>
 </div>
 <div class="cell">
-<div class="sourceCode cell-code" id="cb28"><pre class="sourceCode r code-with-copy"><code class="sourceCode r"><span id="cb28-1"><a href="#cb28-1" aria-hidden="true" tabindex="-1"></a>Combo_df <span class="sc">|&gt;</span></span>
-<span id="cb28-2"><a href="#cb28-2" aria-hidden="true" tabindex="-1"></a>  <span class="fu">ggplot</span>(</span>
-<span id="cb28-3"><a href="#cb28-3" aria-hidden="true" tabindex="-1"></a>    <span class="fu">aes</span>(<span class="at">x =</span> Combo_depth, <span class="at">y =</span> Championship, <span class="at">fill =</span> Championship)</span>
-<span id="cb28-4"><a href="#cb28-4" aria-hidden="true" tabindex="-1"></a>  ) <span class="sc">+</span></span>
-<span id="cb28-5"><a href="#cb28-5" aria-hidden="true" tabindex="-1"></a>  <span class="fu">geom_boxplot</span>() <span class="sc">+</span></span>
-<span id="cb28-6"><a href="#cb28-6" aria-hidden="true" tabindex="-1"></a>  <span class="fu">theme</span>(<span class="at">legend.position =</span> <span class="st">"none"</span>)</span></code><button title="Copy to Clipboard" class="code-copy-button"><i class="bi"></i></button></pre></div>
+<div class="sourceCode cell-code" id="cb34"><pre class="sourceCode r code-with-copy"><code class="sourceCode r"><span id="cb34-1"><a href="#cb34-1" aria-hidden="true" tabindex="-1"></a>Combo_df <span class="sc">|&gt;</span></span>
+<span id="cb34-2"><a href="#cb34-2" aria-hidden="true" tabindex="-1"></a>  <span class="fu">ggplot</span>(</span>
+<span id="cb34-3"><a href="#cb34-3" aria-hidden="true" tabindex="-1"></a>    <span class="fu">aes</span>(<span class="at">x =</span> Combo_depth, <span class="at">y =</span> Championship, <span class="at">fill =</span> Championship)</span>
+<span id="cb34-4"><a href="#cb34-4" aria-hidden="true" tabindex="-1"></a>  ) <span class="sc">+</span></span>
+<span id="cb34-5"><a href="#cb34-5" aria-hidden="true" tabindex="-1"></a>  <span class="fu">geom_boxplot</span>() <span class="sc">+</span></span>
+<span id="cb34-6"><a href="#cb34-6" aria-hidden="true" tabindex="-1"></a>  <span class="fu">theme</span>(<span class="at">legend.position =</span> <span class="st">"none"</span>)</span></code><button title="Copy to Clipboard" class="code-copy-button"><i class="bi"></i></button></pre></div>
 <div class="cell-output-display">
 <p><img src="report_files/figure-html/combo-barplot-depth-1.png" class="img-fluid" width="672"></p>
 </div>
